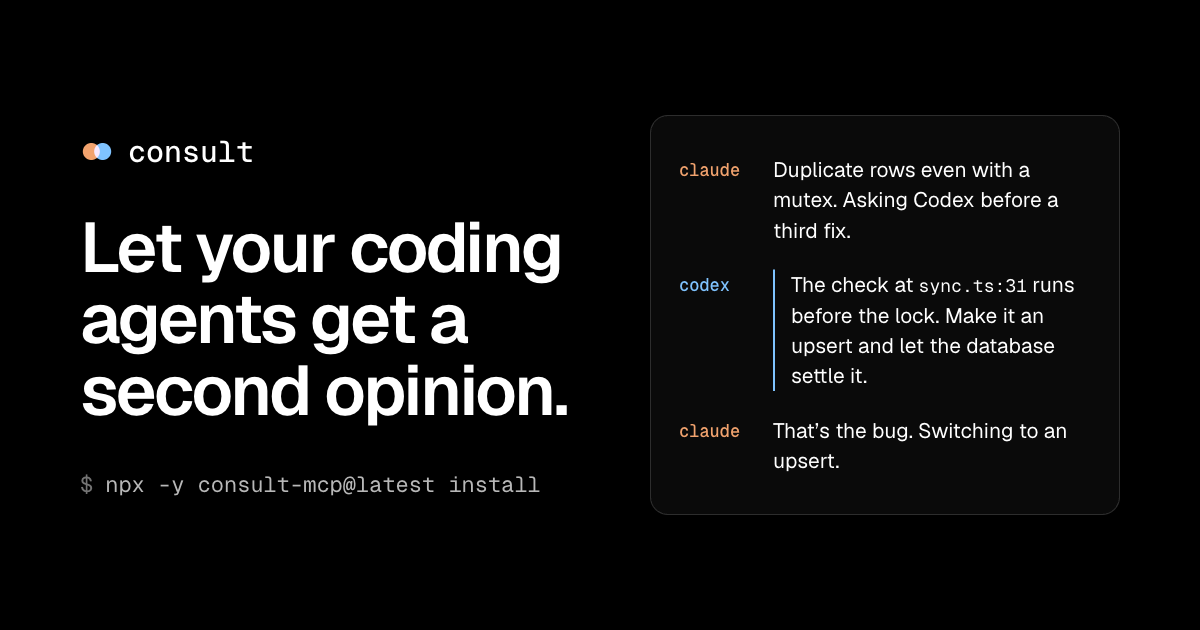
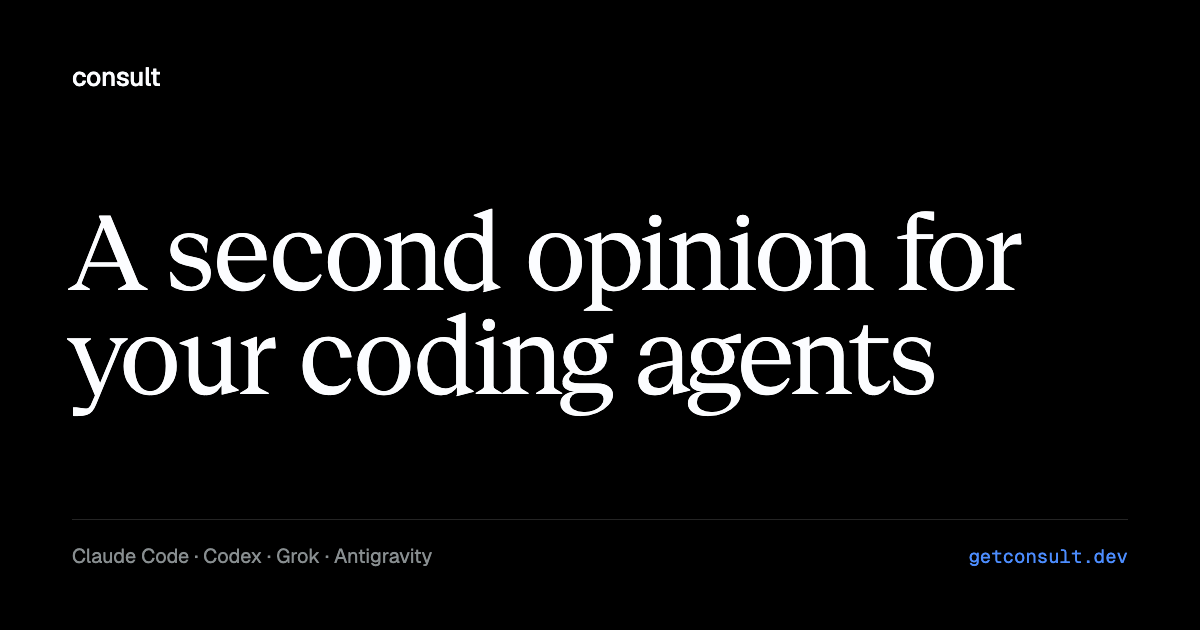
feat: regenerate link-preview image in Blackletter

diff --git a/site/index.html b/site/index.html
@@ -15,13 +15,13 @@
   <meta property="og:image" content="https://getconsult.dev/assets/og.png">
   <meta property="og:image:width" content="1200">
   <meta property="og:image:height" content="630">
-  <meta property="og:image:alt" content="consult: Claude Code asks Codex for a second opinion">
+  <meta property="og:image:alt" content="consult: a second opinion for your coding agents. Claude Code, Codex, Grok and Antigravity.">
   <meta property="og:site_name" content="consult">
   <meta name="twitter:card" content="summary_large_image">
   <meta name="twitter:title" content="consult — a second opinion for your coding agents">
   <meta name="twitter:description" content="Open source MCP server that lets Claude Code, Codex, Grok and Antigravity ask each other for advice, review each other&#x27;s diffs and talk to sessions that are already running. Uses the CLIs you&#x27;re signed in to, no API keys. MIT licensed.">
   <meta name="twitter:image" content="https://getconsult.dev/assets/og.png">
-  <meta name="twitter:image:alt" content="consult: Claude Code asks Codex for a second opinion">
+  <meta name="twitter:image:alt" content="consult: a second opinion for your coding agents. Claude Code, Codex, Grok and Antigravity.">
   <link rel="icon" type="image/svg+xml" href="/assets/favicon.svg">
   <link rel="preconnect" href="https://fonts.googleapis.com">
   <link rel="preconnect" href="https://fonts.gstatic.com" crossorigin>

diff --git a/og/og.html b/og/og.html
@@ -1,0 +1,18 @@
+<!doctype html>
+<html><head><meta charset="utf-8">
+<!-- Source for the link-preview image next to this file. Render at exactly 1200x630 with headless Chrome. Blackletter (~/DESIGN.md), same family as xanom-co/og/og.html. -->
+<link rel="stylesheet" href="https://fonts.googleapis.com/css2?family=Geist:wght@400;500&family=Geist+Mono:wght@400&display=swap">
+<style>
+  @font-face{font-family:"Geist Serif";src:url(https://cdn.jsdelivr.net/npm/geist@1.9.0/dist/fonts/geist-serif/GeistSerifVF.woff2) format("woff2");font-weight:100 900}
+  html,body{margin:0;width:1200px;height:630px;background:#000;color:#FCFDFF}
+  body{display:flex;flex-direction:column;justify-content:space-between;padding:64px 72px;box-sizing:border-box;font-family:"Geist",sans-serif}
+  .l{font:500 26px/1 "Geist";letter-spacing:-.01em}
+  h1{font:400 104px/1 "Geist Serif",Georgia,serif;letter-spacing:-.02em;margin:0}
+  .row{display:flex;justify-content:space-between;align-items:baseline;gap:40px;font:400 20px/1 "Geist";color:#888E90;border-top:1px solid rgba(255,255,255,.14);padding-top:26px}
+  .row .d{font:400 19px/1 "Geist Mono",monospace;color:#4C8DFF;white-space:nowrap}
+</style></head>
+<body>
+  <div class="l">consult</div>
+  <h1>A second opinion for<br>your coding agents</h1>
+  <div class="row"><span>Claude Code · Codex · Grok · Antigravity</span><span class="d">getconsult.dev</span></div>
+</body></html>
